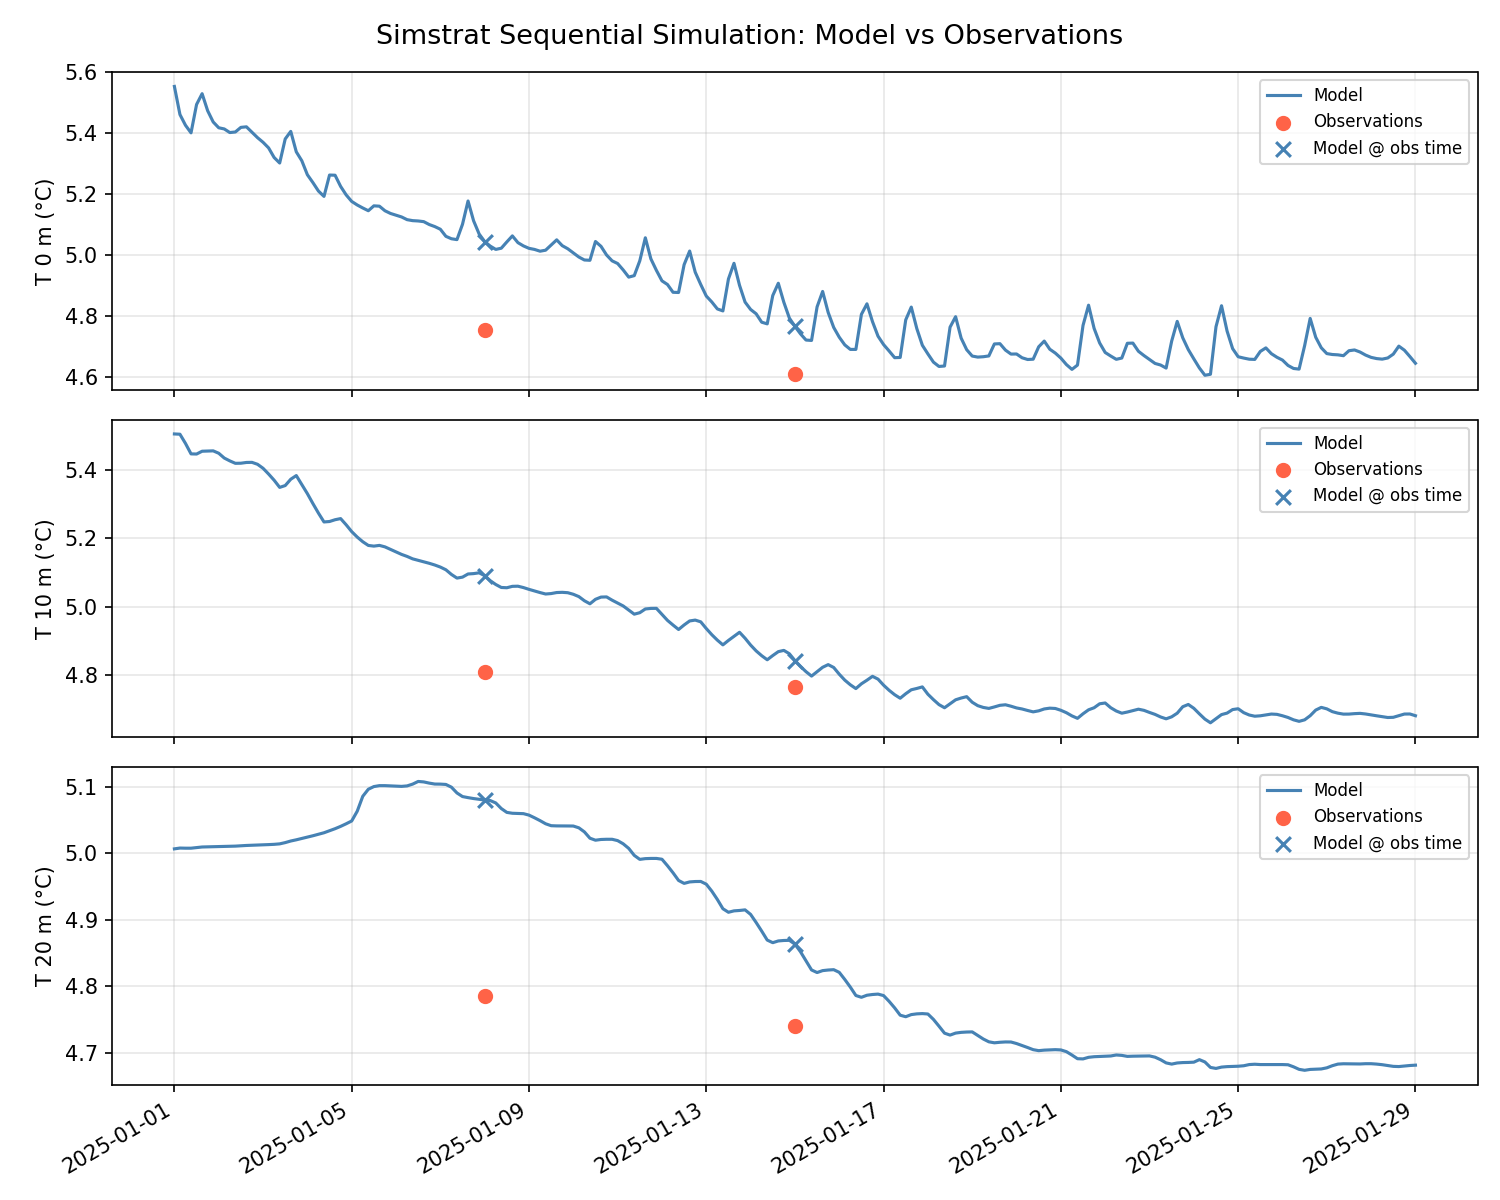
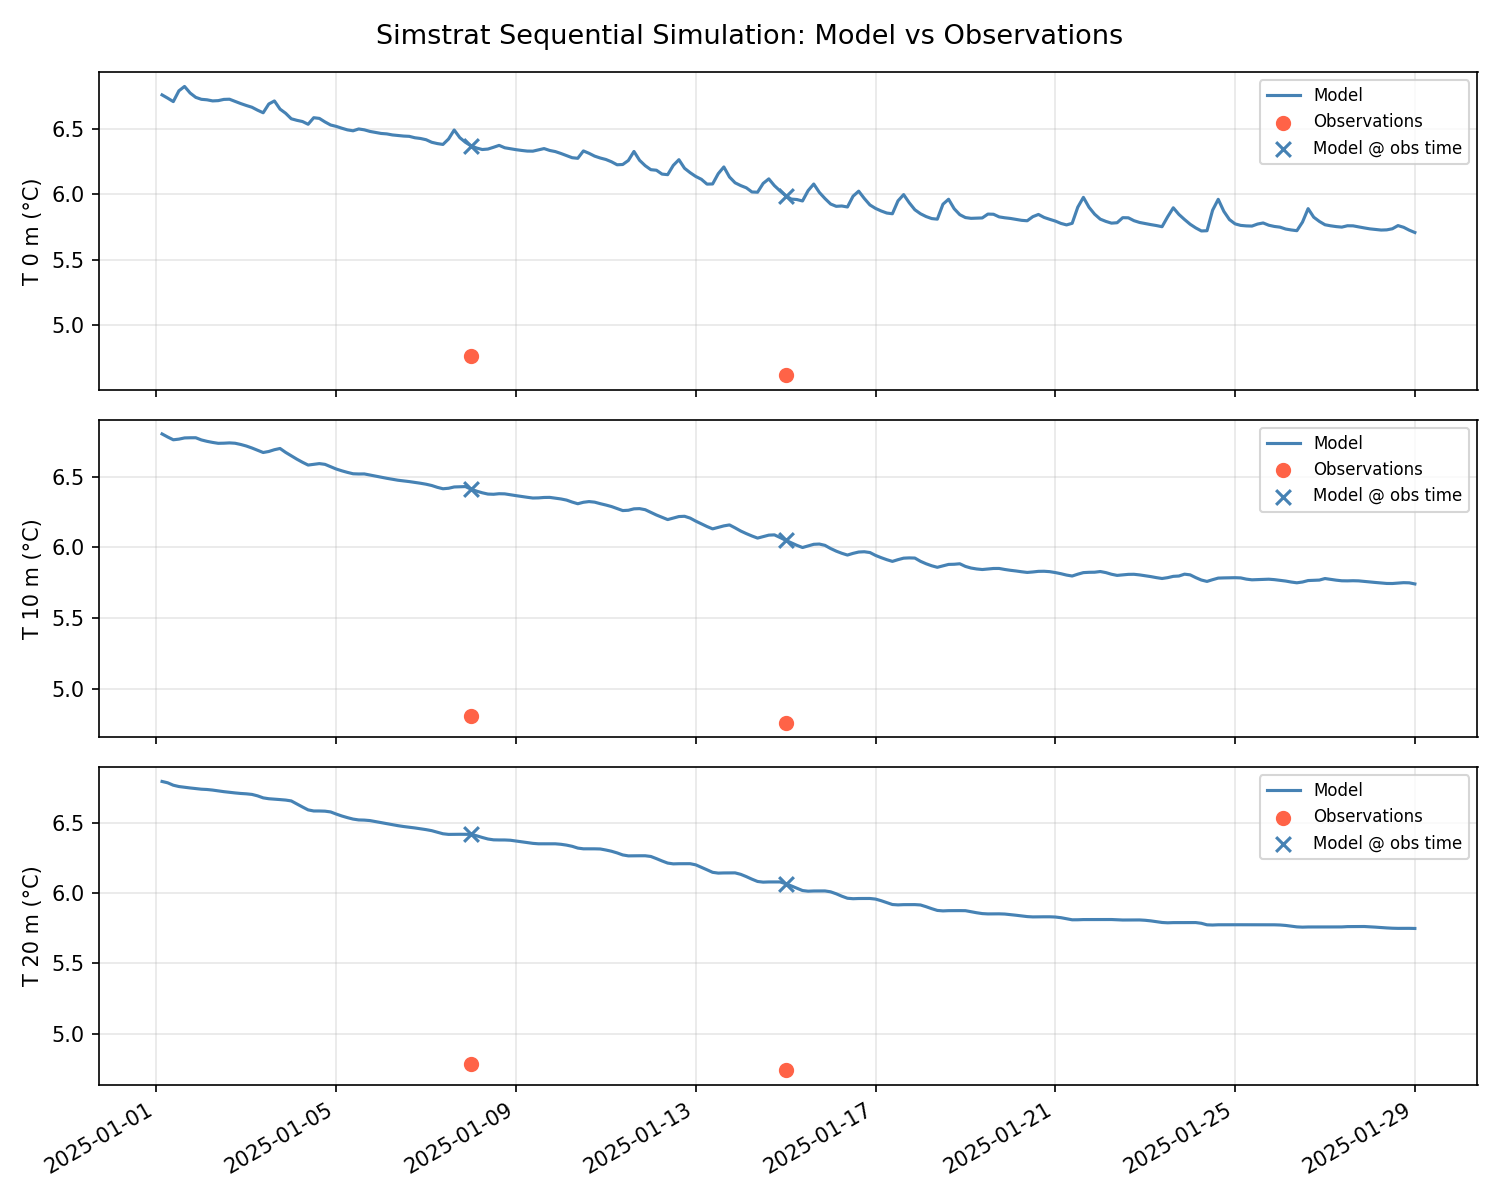
simple implementation added: warmup snapshot restart added

diff --git a/testing_simple/exercise_simstrat/generate_warmup_snapshot.py b/testing_simple/exercise_simstrat/generate_warmup_snapshot.py
@@ -1,0 +1,140 @@
+#!/usr/bin/env python3
+"""Run a free Simstrat spin-up in work0 (2024-01-01 -> 2024-12-31) from
+InitialConditions.dat and update temperature_state.txt from the result.
+
+After this script the snapshot in work0/Results/ and temperature_state.txt
+are 100% consistent and can be used as the starting point for the sequential
+simulation.
+"""
+
+import copy
+import json
+import os
+import shutil
+import subprocess
+import sys
+
+# ---------------------------------------------------------------------------
+# Paths (all relative to this script's location)
+# ---------------------------------------------------------------------------
+SCRIPT_DIR   = os.path.dirname(os.path.abspath(__file__))
+WORK0_DIR    = os.path.join(SCRIPT_DIR, 'work', 'work0')
+SIMSTRAT_EXE = os.path.join(SCRIPT_DIR, 'stochModel', 'bin', 'simstrat_win_304.exe')
+SETTINGS_PAR = os.path.join(WORK0_DIR, 'Settings.par')
+
+# Simstrat days since 1981-01-01
+WARMUP_START = 15705.0   # 2024-01-01
+WARMUP_END   = 16070.0   # 2024-12-31
+
+# IC depth levels that match temperature_state.txt
+IC_DEPTHS = [0.0, -10.0, -20.0, -30.0, -40.0, -50.0, -95.0]
+
+# ---------------------------------------------------------------------------
+# Helpers (copied from simstrat_wrapper.py for self-containedness)
+# ---------------------------------------------------------------------------
+
+def read_t_out(filename):
+    with open(filename) as f:
+        lines = f.readlines()
+    depths = [float(h) for h in lines[0].strip().split(',')[1:]]
+    rows = []
+    for line in lines[1:]:
+        parts = line.strip().split(',')
+        if parts and parts[0]:
+            rows.append([float(x) for x in parts[1:]])
+    return depths, rows
+
+
+def find_depth_col(depths, target):
+    return min(range(len(depths)), key=lambda i: abs(depths[i] - target))
+
+
+def interp_to_ic_depths(depths, row):
+    return [row[find_depth_col(depths, d)] for d in IC_DEPTHS]
+
+
+def write_state_file(path, temps):
+    with open(path, 'w') as f:
+        for t in temps:
+            f.write("{:.6f}\n".format(t))
+
+
+# ---------------------------------------------------------------------------
+# Main
+# ---------------------------------------------------------------------------
+
+def main():
+    print("=== Simstrat warmup: {:.0f} -> {:.0f} days (2024-01-01 -> 2024-12-31) ==="
+          .format(WARMUP_START, WARMUP_END))
+
+    # Load Settings.par
+    with open(SETTINGS_PAR) as f:
+        original = json.load(f)
+
+    warmup = copy.deepcopy(original)
+    warmup['Simulation']['Start d']                    = WARMUP_START
+    warmup['Simulation']['End d']                      = WARMUP_END
+    warmup['Simulation']['Continue from last snapshot'] = True   # must be True to save snapshot
+    warmup['Simulation']['Save text restart']           = False
+    warmup['Simulation']['Use text restart']            = False
+
+    # Remove any existing snapshot so Simstrat starts from InitialConditions.dat
+    output_dir   = original['Output']['Path']
+    snapshot_path = os.path.join(WORK0_DIR, output_dir, 'simulation-snapshot.dat')
+    if os.path.exists(snapshot_path):
+        os.remove(snapshot_path)
+        print("Removed existing snapshot so warmup starts from InitialConditions.dat.")
+
+    # Backup and write warmup settings
+    backup_path = SETTINGS_PAR + '.bak'
+    shutil.copy2(SETTINGS_PAR, backup_path)
+    with open(SETTINGS_PAR, 'w') as f:
+        json.dump(warmup, f, indent=4)
+    print("Settings.par written for warmup run.")
+
+    try:
+        print("Running Simstrat...")
+        result = subprocess.run(
+            [SIMSTRAT_EXE, 'Settings.par'],
+            cwd=WORK0_DIR,
+            capture_output=True, text=True
+        )
+        if result.stdout:
+            print(result.stdout.strip())
+        if result.returncode != 0:
+            print("ERROR:", result.stderr)
+            sys.exit(result.returncode)
+        print("Simstrat finished successfully.")
+    finally:
+        # Always restore Settings.par
+        shutil.copy2(backup_path, SETTINGS_PAR)
+        os.remove(backup_path)
+        print("Settings.par restored.")
+
+    # Update temperature_state.txt from end of warmup
+    t_out_path = os.path.join(WORK0_DIR, output_dir, 'T_out.dat')
+    depths, rows = read_t_out(t_out_path)
+    temps = interp_to_ic_depths(depths, rows[-1])
+    state_path = os.path.join(WORK0_DIR, 'temperature_state.txt')
+    write_state_file(state_path, temps)
+    print("temperature_state.txt updated: {}".format(
+        [round(t, 3) for t in temps]))
+
+    snapshot_path = os.path.join(WORK0_DIR, output_dir, 'simulation-snapshot.dat')
+    print("Snapshot: {}  ({} bytes)".format(
+        snapshot_path, os.path.getsize(snapshot_path)))
+
+    # Copy snapshot + state into the template so OpenDA's initializeActionsUsingDirClone
+    # propagates them into work0 when the sequential simulation starts.
+    template_dir = os.path.join(SCRIPT_DIR, 'stochModel', 'template')
+    template_snapshot = os.path.join(template_dir, output_dir, 'simulation-snapshot.dat')
+    template_state    = os.path.join(template_dir, 'temperature_state.txt')
+    shutil.copy2(snapshot_path, template_snapshot)
+    shutil.copy2(state_path,    template_state)
+    print("Copied snapshot  -> {}".format(template_snapshot))
+    print("Copied state     -> {}".format(template_state))
+    print("Done. Run OpenDA and work0 will start from the warmup snapshot.")
+
+
+if __name__ == '__main__':
+    main()

diff --git a/testing_simple/exercise_simstrat/sequentialSimulation_results.py b/testing_simple/exercise_simstrat/sequentialSimulation_results.py
@@ -32,7 +32,7 @@ import numpy as np
 #  resultItem id: x_f_central, outputLevel: Verbose, context: forecast step
 x_f_central=[]
 #  state: temperature.state
-x_f_central.append([5.0453, 5.0912, 5.0798, 5.0009, 4.9251, 4.5663, 4.5017])
+x_f_central.append([6.3733, 6.4106, 6.4186, 6.2748, 5.7893, 5.2877, 4.8672])
 # ========================================================================
 # 
 #  analysis at 190211250000UTC (16078.0) 
@@ -49,25 +49,25 @@ analysis_time.append(16078.0)
 #  resultItem id: pred_f_central, outputLevel: Essential, context: analysis step
 pred_f_central=[]
 #  predictions: T_0m, T_10m, T_20m
-pred_f_central.append([5.0453, 5.0912, 5.0798])
+pred_f_central.append([6.3733, 6.4106, 6.4186])
 #  resultItem id: obs, outputLevel: Essential, context: analysis step
 obs=[]
 obs.append([4.7564,4.8104,4.7854])
 #  resultItem id: x_a, outputLevel: Verbose, context: analysis step
 x_a=[]
 #  state: temperature.state
-x_a.append([5.0453, 5.0912, 5.0798, 5.0009, 4.9251, 4.5663, 4.5017])
+x_a.append([6.3733, 6.4106, 6.4186, 6.2748, 5.7893, 5.2877, 4.8672])
 # Getting model values at observed coordinates for scalar observation exchangeItem with id 'T_0m'.
 # Getting model values at observed coordinates for scalar observation exchangeItem with id 'T_10m'.
 # Getting model values at observed coordinates for scalar observation exchangeItem with id 'T_20m'.
 #  resultItem id: pred_a_central, outputLevel: Essential, context: analysis step
 pred_a_central=[]
 #  predictions: T_0m, T_10m, T_20m
-pred_a_central.append([5.0453, 5.0912, 5.0798])
+pred_a_central.append([6.3733, 6.4106, 6.4186])
 #  resultItem id: x_a_central, outputLevel: Verbose, context: analysis step
 x_a_central=[]
 #  state: temperature.state
-x_a_central.append([5.0453, 5.0912, 5.0798, 5.0009, 4.9251, 4.5663, 4.5017])
+x_a_central.append([6.3733, 6.4106, 6.4186, 6.2748, 5.7893, 5.2877, 4.8672])
 # Algorithm starting next step
 # ========================================================================
 # 
@@ -79,7 +79,7 @@ x_a_central.append([5.0453, 5.0912, 5.0798, 5.0009, 4.9251, 4.5663, 4.5017])
 # 
 #  resultItem id: x_f_central, outputLevel: Verbose, context: forecast step
 #  state: temperature.state
-x_f_central.append([4.7672, 4.8431, 4.8632, 4.8688, 4.822, 4.6621, 4.5062])
+x_f_central.append([5.9906, 6.0509, 6.0675, 6.0615, 5.792, 5.357, 4.9696])
 # ========================================================================
 # 
 #  analysis at 190212020000UTC (16085.0) 
@@ -94,21 +94,21 @@ analysis_time.append(16085.0)
 # Getting model values at observed coordinates for scalar observation exchangeItem with id 'T_20m'.
 #  resultItem id: pred_f_central, outputLevel: Essential, context: analysis step
 #  predictions: T_0m, T_10m, T_20m
-pred_f_central.append([4.7672, 4.8431, 4.8632])
+pred_f_central.append([5.9906, 6.0509, 6.0675])
 #  resultItem id: obs, outputLevel: Essential, context: analysis step
 obs.append([4.612,4.765,4.74])
 #  resultItem id: x_a, outputLevel: Verbose, context: analysis step
 #  state: temperature.state
-x_a.append([4.7672, 4.8431, 4.8632, 4.8688, 4.822, 4.6621, 4.5062])
+x_a.append([5.9906, 6.0509, 6.0675, 6.0615, 5.792, 5.357, 4.9696])
 # Getting model values at observed coordinates for scalar observation exchangeItem with id 'T_0m'.
 # Getting model values at observed coordinates for scalar observation exchangeItem with id 'T_10m'.
 # Getting model values at observed coordinates for scalar observation exchangeItem with id 'T_20m'.
 #  resultItem id: pred_a_central, outputLevel: Essential, context: analysis step
 #  predictions: T_0m, T_10m, T_20m
-pred_a_central.append([4.7672, 4.8431, 4.8632])
+pred_a_central.append([5.9906, 6.0509, 6.0675])
 #  resultItem id: x_a_central, outputLevel: Verbose, context: analysis step
 #  state: temperature.state
-x_a_central.append([4.7672, 4.8431, 4.8632, 4.8688, 4.822, 4.6621, 4.5062])
+x_a_central.append([5.9906, 6.0509, 6.0675, 6.0615, 5.792, 5.357, 4.9696])
 # Algorithm starting next step
 # ========================================================================
 # 
@@ -120,7 +120,7 @@ x_a_central.append([4.7672, 4.8431, 4.8632, 4.8688, 4.822, 4.6621, 4.5062])
 # 
 #  resultItem id: x_f_central, outputLevel: Verbose, context: forecast step
 #  state: temperature.state
-x_f_central.append([4.6463, 4.682, 4.6813, 4.6767, 4.6705, 4.6631, 4.6437])
+x_f_central.append([5.7079, 5.7431, 5.7489, 5.7401, 5.6337, 5.4254, 5.1552])
 # Algorithm Done
 # Application Done
 # Try to merge lists into arrays
